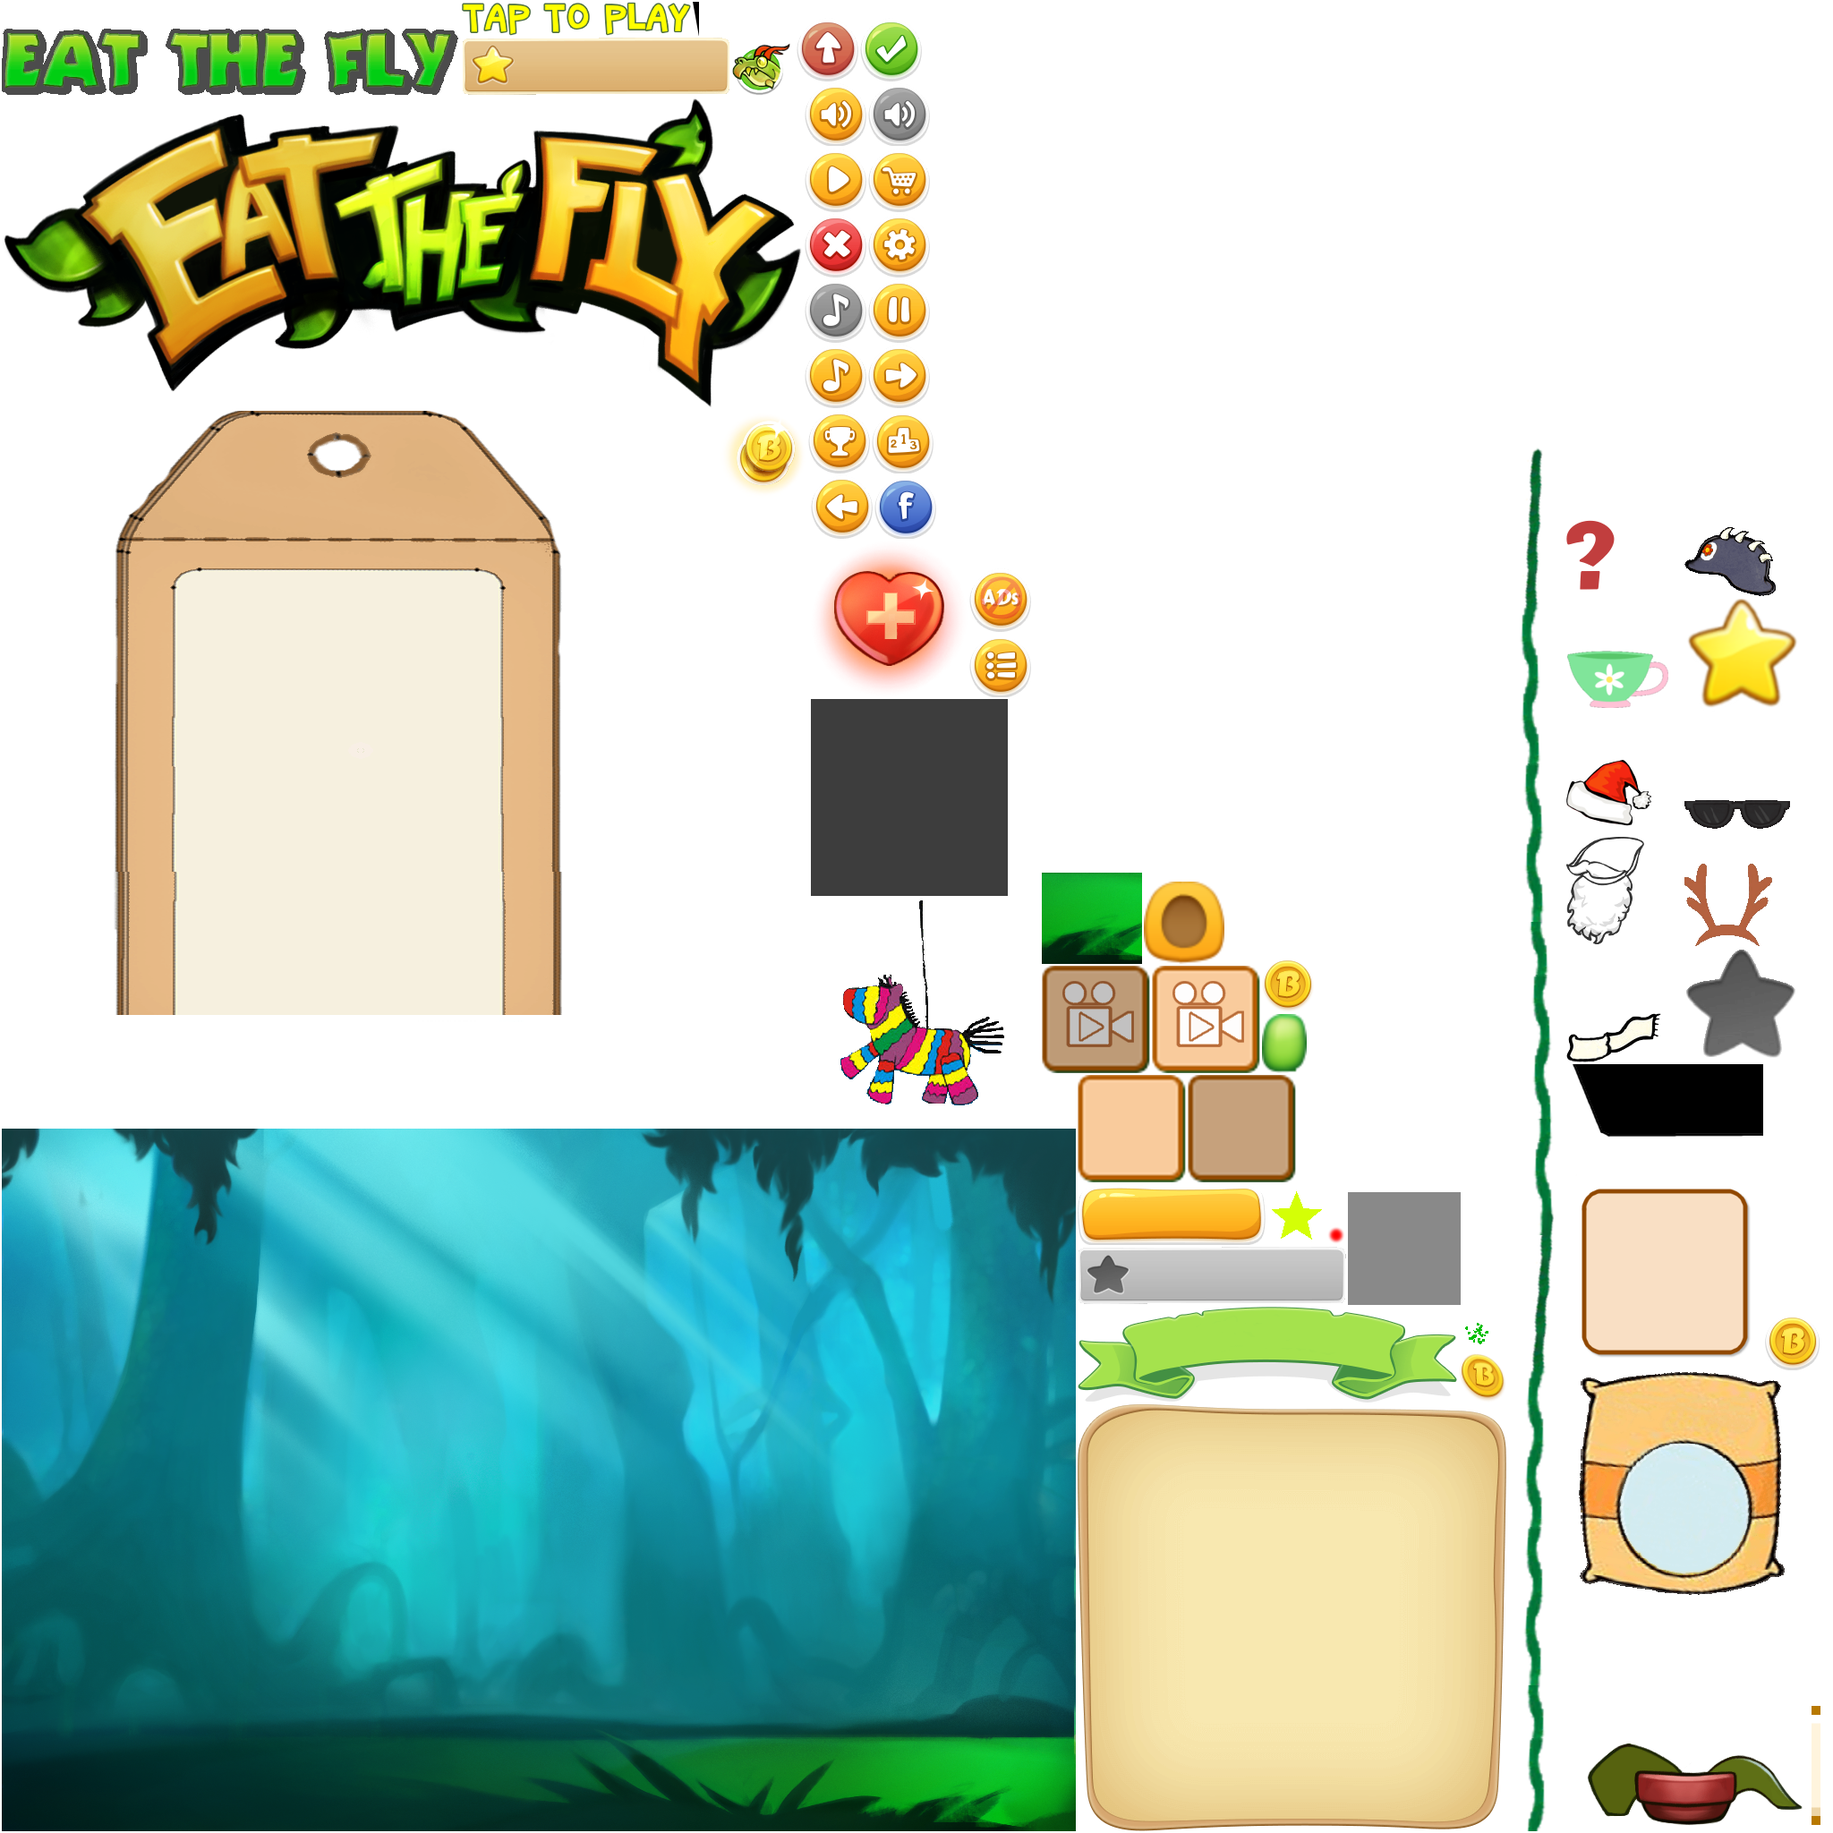
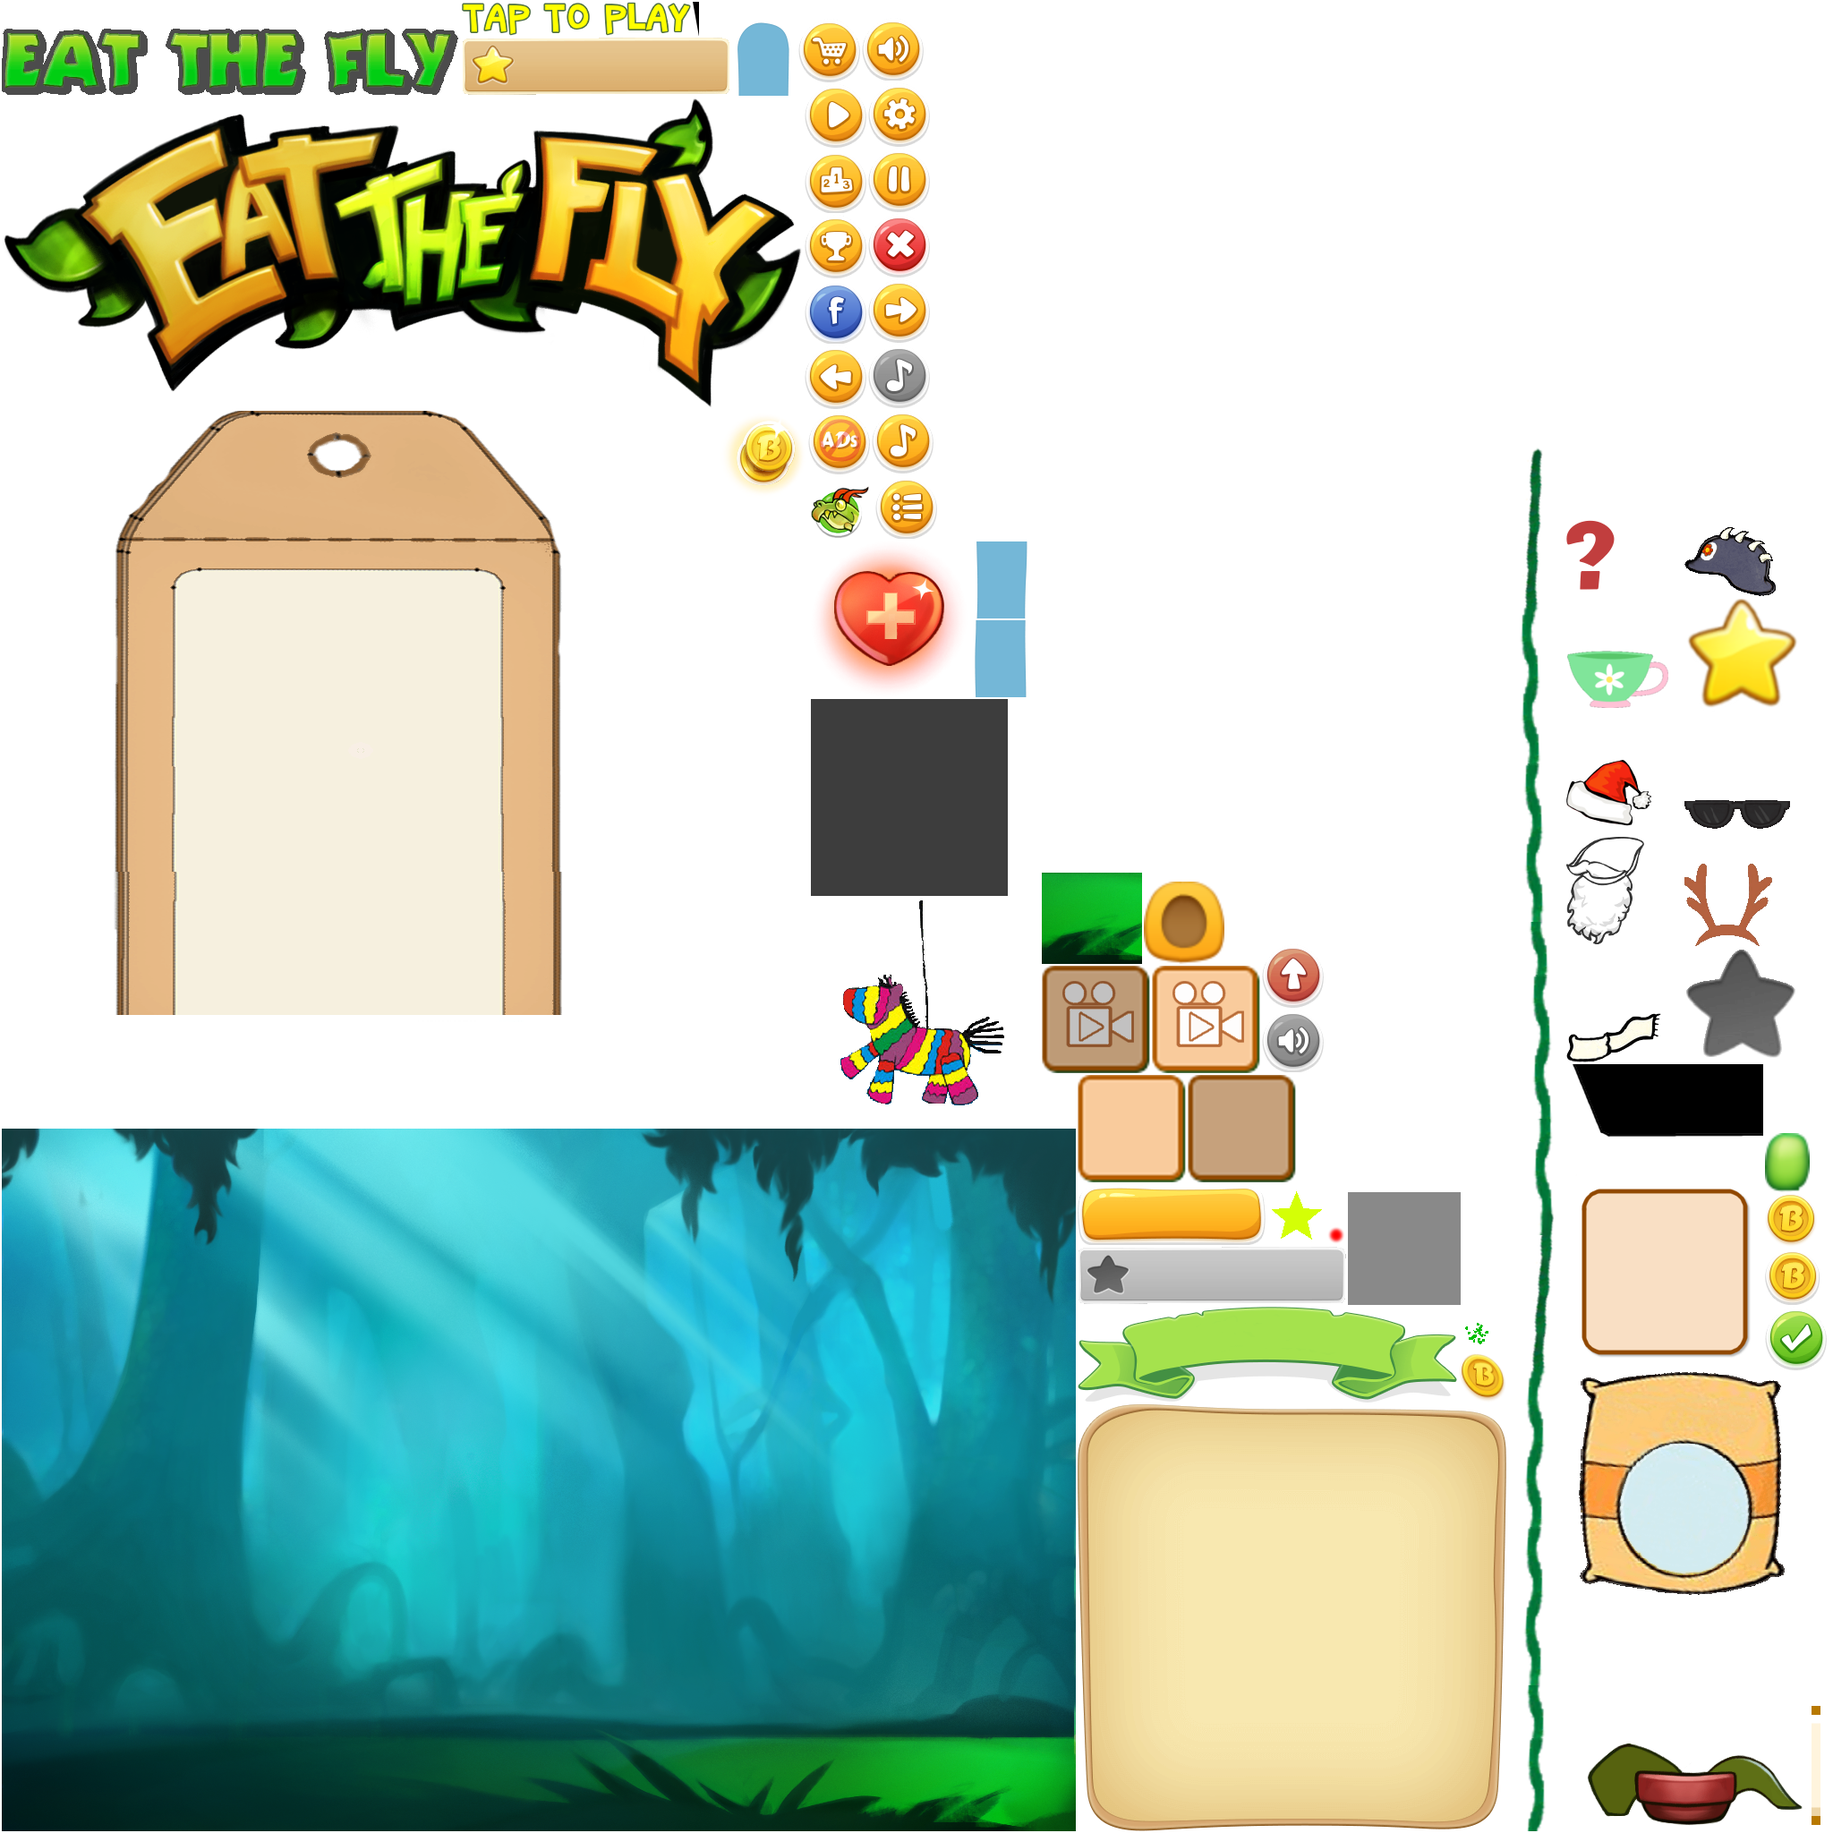
* dem flaps on MainMenu

diff --git a/core/src/com/mygdx/etf/stages/MenuScreenScript.java b/core/src/com/mygdx/etf/stages/MenuScreenScript.java
@@ -2,6 +2,7 @@ package com.mygdx.etf.stages;
 
 import com.badlogic.ashley.core.ComponentMapper;
 import com.badlogic.ashley.core.Entity;
+import com.badlogic.gdx.math.Interpolation;
 import com.mygdx.etf.Main;
 import com.mygdx.etf.entity.componets.Level;
 import com.mygdx.etf.entity.componets.ToggleButtonComponent;
@@ -10,15 +11,15 @@ import com.mygdx.etf.stages.ui.PauseDialog;
 import com.mygdx.etf.stages.ui.Settings;
 import com.mygdx.etf.stages.ui.TrialTimer;
 import com.mygdx.etf.utils.GlobalConstants;
-import com.uwsoft.editor.renderer.components.DimensionsComponent;
-import com.uwsoft.editor.renderer.components.LayerMapComponent;
-import com.uwsoft.editor.renderer.components.TintComponent;
-import com.uwsoft.editor.renderer.components.TransformComponent;
+import com.uwsoft.editor.renderer.components.*;
 import com.uwsoft.editor.renderer.components.additional.ButtonComponent;
 import com.uwsoft.editor.renderer.components.label.LabelComponent;
 import com.uwsoft.editor.renderer.scripts.IScript;
+import com.uwsoft.editor.renderer.systems.action.Actions;
 import com.uwsoft.editor.renderer.utils.ComponentRetriever;
 import com.uwsoft.editor.renderer.utils.ItemWrapper;
+
+import javax.swing.*;
 
 import static com.mygdx.etf.stages.GameStage.gameScript;
 import static com.mygdx.etf.stages.ui.AbstractDialog.isDialogOpen;
@@ -35,8 +36,11 @@ public class MenuScreenScript implements IScript {
     public static final String CURTAIN = "curtain_mm";
     public static final String BTN_FB = "btn_fb";
     public static final String BTN_LEADERBOARD = "btn_leaderboard";
+    public static final String LEADERBOARD_C = "lederboard_composite";
     public static final String BTN_ACHIEVEMENTS = "btn_achievements";
+    public static final String ACHIEVEMENTS_C = "achievements_composite";
     public static final String BTN_SIGN_IN_OUT = "btn_signInOut";
+    public static final String SIGN_IN_OUT_C = "login_composite";
     public static final String BTN_PLAY_SERVICES = "btn_playServices";
 
     public static final int TIMER_X = 680;
@@ -45,6 +49,9 @@ public class MenuScreenScript implements IScript {
     private static final float TINT_STEP = 0.05f;
     private static final String IMG_LOGO = "img_logo";
     private static final String TAP_TO_PLAY = "tap_to_play";
+
+    public boolean playServiceFlapIsOut = false;
+    public boolean movingFlaps = false;
 
     ItemWrapper menuItem;
     private Settings settings;
@@ -69,6 +76,9 @@ public class MenuScreenScript implements IScript {
     private static Entity btnAch;
     private static Entity btnPlayServices;
     private static Entity btnSignInOut;
+    private static Entity leaderboard_C;
+    private static Entity login_C;
+    private static Entity achievements_C;
 
     public float wrldW = 800;
     public float wrldH = 524;
@@ -137,10 +147,15 @@ public class MenuScreenScript implements IScript {
         rateAppBtn = menuItem.getChild(BTN_RATE).getEntity();
         btnPlayServices = menuItem.getChild(BTN_PLAY_SERVICES).getEntity();
         btnFB = menuItem.getChild(BTN_FB).getEntity();
-        btnAch = menuItem.getChild(BTN_ACHIEVEMENTS).getEntity();
-        btnLB = menuItem.getChild(BTN_LEADERBOARD).getEntity();
         btnGoals = menuItem.getChild(BTN_GOALS).getEntity();
-        btnSignInOut = menuItem.getChild(BTN_SIGN_IN_OUT).getEntity();
+
+        leaderboard_C = menuItem.getChild(LEADERBOARD_C).getEntity();
+        achievements_C = menuItem.getChild(ACHIEVEMENTS_C).getEntity();
+        login_C = menuItem.getChild(SIGN_IN_OUT_C).getEntity();
+
+        btnAch = achievements_C.getComponent(NodeComponent.class).getChild(BTN_ACHIEVEMENTS);
+        btnLB = leaderboard_C.getComponent(NodeComponent.class).getChild(BTN_LEADERBOARD);
+        btnSignInOut = login_C.getComponent(NodeComponent.class).getChild(BTN_SIGN_IN_OUT);
 
         ToggleButtonComponent signInOutTbc = new ToggleButtonComponent();
         btnSignInOut.add(signInOutTbc);
@@ -165,36 +180,42 @@ public class MenuScreenScript implements IScript {
 
                 @Override
                 public void touchDown() {
-                    btnSignInOut.getComponent(TransformComponent.class).scaleX -= GlobalConstants.TENTH;
-                    btnSignInOut.getComponent(TransformComponent.class).scaleY -= GlobalConstants.TENTH;
-                    btnSignInOut.getComponent(TransformComponent.class).x += btnSignInOut.getComponent(DimensionsComponent.class).width / 20;
-                    btnSignInOut.getComponent(TransformComponent.class).y += btnSignInOut.getComponent(DimensionsComponent.class).height / 20;
+                    if(playServiceFlapIsOut) {
+                        btnSignInOut.getComponent(TransformComponent.class).scaleX -= GlobalConstants.TENTH;
+                        btnSignInOut.getComponent(TransformComponent.class).scaleY -= GlobalConstants.TENTH;
+                        btnSignInOut.getComponent(TransformComponent.class).x += btnSignInOut.getComponent(DimensionsComponent.class).width / 20;
+                        btnSignInOut.getComponent(TransformComponent.class).y += btnSignInOut.getComponent(DimensionsComponent.class).height / 20;
+                    }
                 }
 
                 @Override
                 public void touchUp() {
-                    btnSignInOut.getComponent(TransformComponent.class).scaleX += GlobalConstants.TENTH;
-                    btnSignInOut.getComponent(TransformComponent.class).scaleY += GlobalConstants.TENTH;
-                    btnSignInOut.getComponent(TransformComponent.class).x -= btnSignInOut.getComponent(DimensionsComponent.class).width / 20;
-                    btnSignInOut.getComponent(TransformComponent.class).y -= btnSignInOut.getComponent(DimensionsComponent.class).height / 20;
+                    if(playServiceFlapIsOut) {
+                        btnSignInOut.getComponent(TransformComponent.class).scaleX += GlobalConstants.TENTH;
+                        btnSignInOut.getComponent(TransformComponent.class).scaleY += GlobalConstants.TENTH;
+                        btnSignInOut.getComponent(TransformComponent.class).x -= btnSignInOut.getComponent(DimensionsComponent.class).width / 20;
+                        btnSignInOut.getComponent(TransformComponent.class).y -= btnSignInOut.getComponent(DimensionsComponent.class).height / 20;
+                    }
                 }
 
                 @Override
                 public void clicked() {
-                    final ToggleButtonComponent tbc = mapper.get(btnSignInOut);
-                    if (tbc.isOn()) {
-                        lc.getLayer(BTN_NORMAL).isVisible = false;
-                        lc.getLayer(BTN_PRESSED).isVisible = true;
+                    if(playServiceFlapIsOut) {
+                        final ToggleButtonComponent tbc = mapper.get(btnSignInOut);
+                        if (tbc.isOn()) {
+                            lc.getLayer(BTN_NORMAL).isVisible = false;
+                            lc.getLayer(BTN_PRESSED).isVisible = true;
 //                        lc.getLayer(BTN_DEFAULT).isVisible = false;
-                        Main.mainController.signOut();
-                        tbc.setOff();
-                        System.out.println("Signed out");
-                    } else {
-                        lc.getLayer(BTN_NORMAL).isVisible = true;
-                        lc.getLayer(BTN_PRESSED).isVisible = false;
-                        Main.mainController.signIn();
-                        System.out.println("Signed in");
-                        tbc.setOn();
+                            Main.mainController.signOut();
+                            tbc.setOff();
+                            System.out.println("Signed out");
+                        } else {
+                            lc.getLayer(BTN_NORMAL).isVisible = true;
+                            lc.getLayer(BTN_PRESSED).isVisible = false;
+                            Main.mainController.signIn();
+                            System.out.println("Signed in");
+                            tbc.setOn();
+                        }
                     }
                 }
             });
@@ -214,7 +235,9 @@ public class MenuScreenScript implements IScript {
                 new ImageButtonListener(btnAch) {
                     @Override
                     public void clicked() {
-                        Main.mainController.getAchievements();
+                        if(playServiceFlapIsOut) {
+                            Main.mainController.getAchievements();
+                        }
                     }
                 });
 
@@ -223,17 +246,22 @@ public class MenuScreenScript implements IScript {
                 new ImageButtonListener(btnLB) {
                     @Override
                     public void clicked() {
-                        Main.mainController.getLeaderboard();
+
+                        if(playServiceFlapIsOut) {
+                            Main.mainController.getLeaderboard();
+                        }
                     }
                 });
 
         rateAppBtn.getComponent(ButtonComponent.class).addListener(
                 new ImageButtonListener(rateAppBtn) {
                     @Override
+
                     public void clicked() {
-                        if (!isDialogOpen) {
-                            Main.mainController.rateMyApp();
-                        }
+                            if (!isDialogOpen) {
+                                Main.mainController.rateMyApp();
+                            }
+
                     }
                 });
 
@@ -273,6 +301,29 @@ public class MenuScreenScript implements IScript {
                     }
                 });
 
+        btnPlayServices.getComponent(ButtonComponent.class).addListener(
+                new ImageButtonListener(btnPlayServices) {
+                    @Override
+                    public void clicked() {
+//                        if(login_C.getComponent(TransformComponent.class).y >= 162) {
+//                        ActionComponent acLogin = new ActionComponent();
+//                        Actions.checkInit();
+//                        if(!playServiceFlapIsOut) {
+//                            acLogin.dataArray.add(Actions.moveTo(416, 162, 0.5f));
+//                        }else{
+//                            acLogin.dataArray.add(Actions.moveTo(416, 330, 0.3f));
+//                        }
+//                        login_C.add(acLogin);
+//
+//                        if(login_C.getComponent(TransformComponent.class).y <= 161){
+//                            playServiceFlapIsOut = true;
+//                        }else if(login_C.getComponent(TransformComponent.class).y >= 329){
+//                            playServiceFlapIsOut = false;
+//                        }
+                        movingFlaps = true;
+                    }
+                });
+
         btnGoals.getComponent(ButtonComponent.class).addListener(
                 new ImageButtonListener(btnGoals) {
                     @Override
@@ -304,6 +355,51 @@ public class MenuScreenScript implements IScript {
 //        GameStage.viewport.getCamera()
 //        System.out.println("world width:" + GameStage.viewport.getWorldWidth());
 //        System.out.println("world height:" + GameStage.viewport.getWorldHeight());
+
+        //move da other buttons
+        if(movingFlaps) {
+            if (!playServiceFlapIsOut) {
+                if (login_C.getComponent(TransformComponent.class).y > 162) {
+                    login_C.getComponent(TransformComponent.class).y -= 4;
+                    if (login_C.getComponent(TransformComponent.class).y <= 278 && achievements_C.getComponent(TransformComponent.class).y > 215) {
+                        achievements_C.getComponent(TransformComponent.class).y -= 4;
+                        if (achievements_C.getComponent(TransformComponent.class).y <= 279 && leaderboard_C.getComponent(TransformComponent.class).y > 268.40f) {
+                            leaderboard_C.getComponent(TransformComponent.class).y -= 4;
+                            if (leaderboard_C.getComponent(TransformComponent.class).y <= 268.40f) {
+                                playServiceFlapIsOut = true;
+                                movingFlaps = false;
+                            }
+                        }
+                    }
+                }
+            } else {
+                if (login_C.getComponent(TransformComponent.class).y < 330) {
+                    login_C.getComponent(TransformComponent.class).y += 4;
+                    if (login_C.getComponent(TransformComponent.class).y >= 328) {
+                        playServiceFlapIsOut = false;
+                        movingFlaps = false;
+                    }
+                }
+                if (achievements_C.getComponent(TransformComponent.class).y < 330) {
+                    achievements_C.getComponent(TransformComponent.class).y += 4;
+                }
+                if (leaderboard_C.getComponent(TransformComponent.class).y < 328) {
+                    leaderboard_C.getComponent(TransformComponent.class).y += 4;
+                }
+//                    if (login_C.getComponent(TransformComponent.class).y >= 278 && achievements_C.getComponent(TransformComponent.class).y < 331) {
+//                        achievements_C.getComponent(TransformComponent.class).y += 3;
+//                        if (achievements_C.getComponent(TransformComponent.class).y >= 279 && leaderboard_C.getComponent(TransformComponent.class).y < 328) {
+//                            leaderboard_C.getComponent(TransformComponent.class).y += 3;
+//                            if (leaderboard_C.getComponent(TransformComponent.class).y >= 328) {
+//                                playServiceFlapIsOut = false;
+//                                movingFlaps = false;
+//                            }
+//                        }
+//                    }
+//                }
+            }
+        }
+
         GameStage.viewport.setWorldSize(wrldW, wrldH);
         GameStage.viewport.getCamera().translate(camPosX, 0, 0);
 
@@ -378,4 +474,5 @@ public class MenuScreenScript implements IScript {
         if (pauseDialog != null)
             pauseDialog.deleteTiles();
     }
+
 }
